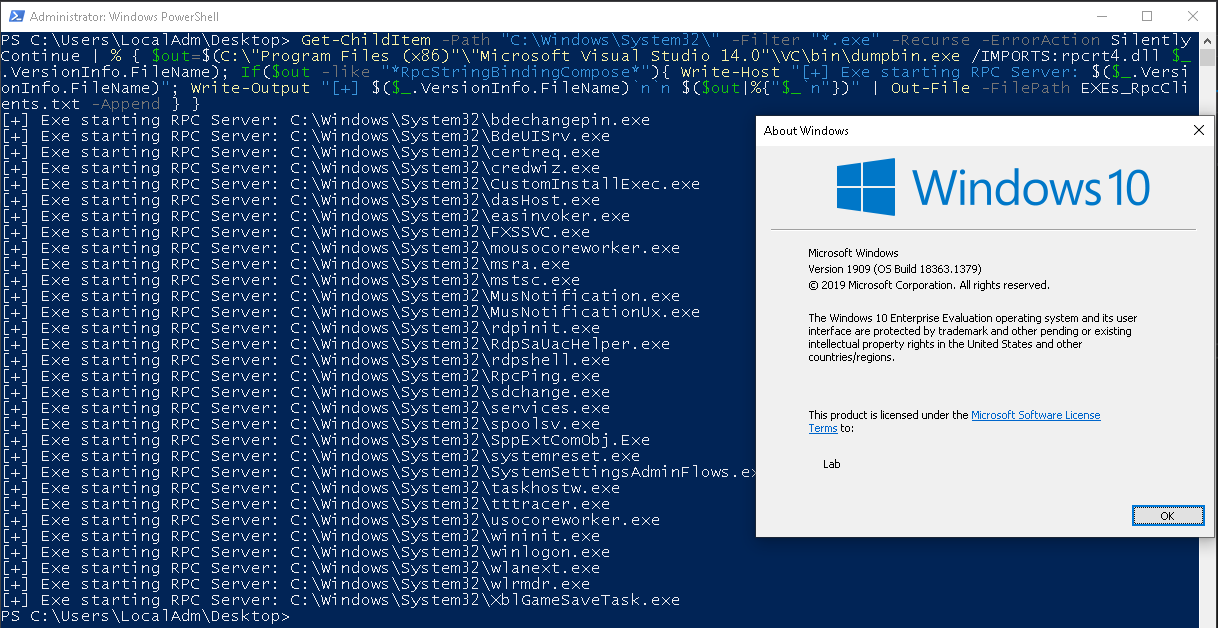
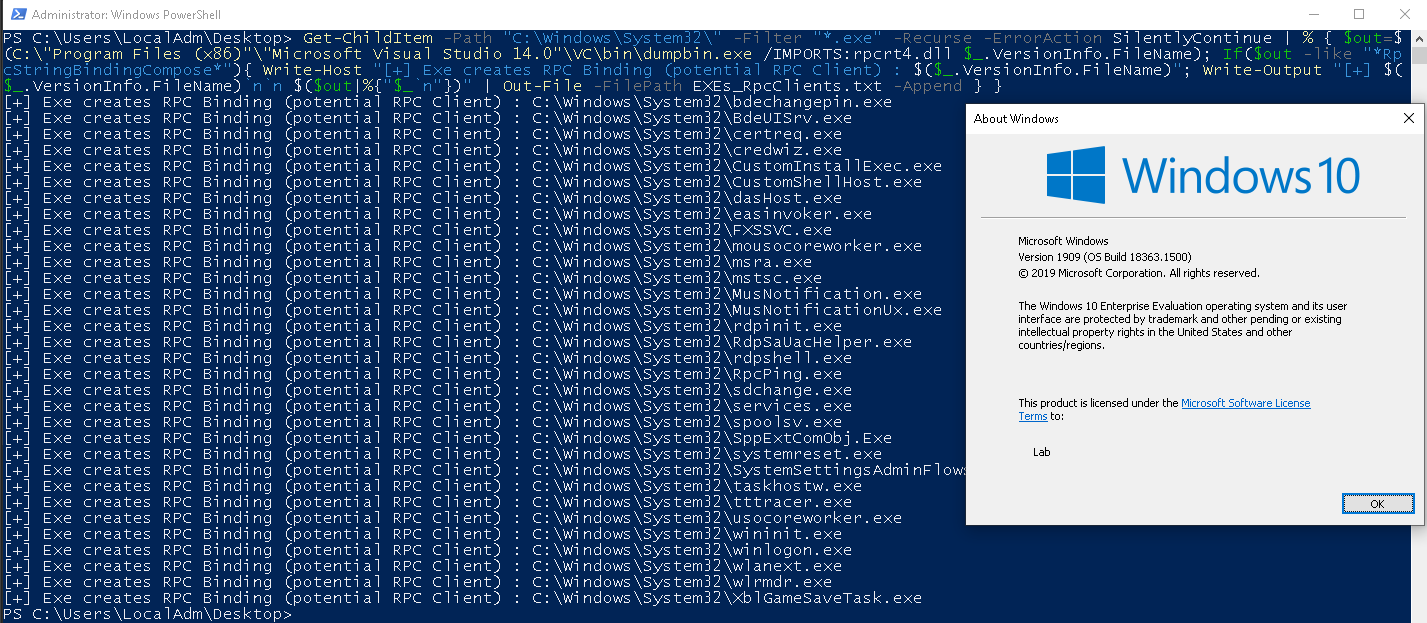
Minor change in Powershell snippet to find RPC Clients

Changed region(s): [[0.0, 0.0, 1.0, 1.0]]

diff --git a/_posts/2021-02-21-Offensive-Windows-IPC-2-RPC.md b/_posts/2021-02-21-Offensive-Windows-IPC-2-RPC.md
@@ -429,7 +429,7 @@ There is no single authority that is aware of which RPC clients are currently ru
 Finding local executables that import client RPC API is analogous to what we already did to find servers with [DumpBin](https://docs.microsoft.com/en-us/cpp/build/reference/dumpbin-reference?view=msvc-160). A good Windows API to look for is [RpcStringBindingCompose](https://docs.microsoft.com/en-us/windows/win32/api/rpcdce/nf-rpcdce-rpcstringbindingcompose):
 
 ```powershell
-Get-ChildItem -Path "C:\Windows\System32\" -Filter "*.exe" -Recurse -ErrorAction SilentlyContinue | % { $out=$(C:\"Program Files (x86)"\"Microsoft Visual Studio 14.0"\VC\bin\dumpbin.exe /IMPORTS:rpcrt4.dll $_.VersionInfo.FileName); If($out -like "*RpcStringBindingCompose*"){ Write-Host "[+] Exe starting RPC Server: $($_.VersionInfo.FileName)"; Write-Output "[+] $($_.VersionInfo.FileName)`n`n $($out|%{"$_`n"})" | Out-File -FilePath EXEs_RpcClients.txt -Append } }
+Get-ChildItem -Path "C:\Windows\System32\" -Filter "*.exe" -Recurse -ErrorAction SilentlyContinue | % { $out=$(C:\"Program Files (x86)"\"Microsoft Visual Studio 14.0"\VC\bin\dumpbin.exe /IMPORTS:rpcrt4.dll $_.VersionInfo.FileName); If($out -like "*RpcStringBindingCompose*"){ Write-Host "[+] Exe creates RPC Binding (potential RPC Client) : $($_.VersionInfo.FileName)"; Write-Output "[+] $($_.VersionInfo.FileName)`n`n $($out|%{"$_`n"})" | Out-File -FilePath EXEs_RpcClients.txt -Append } }
 ```
 
 ![RPC Clients By Export](/public/img/2021-02-21-Offensive-Windows-IPC-2-RPC/RPC_List_Clients_By_Export.png)
